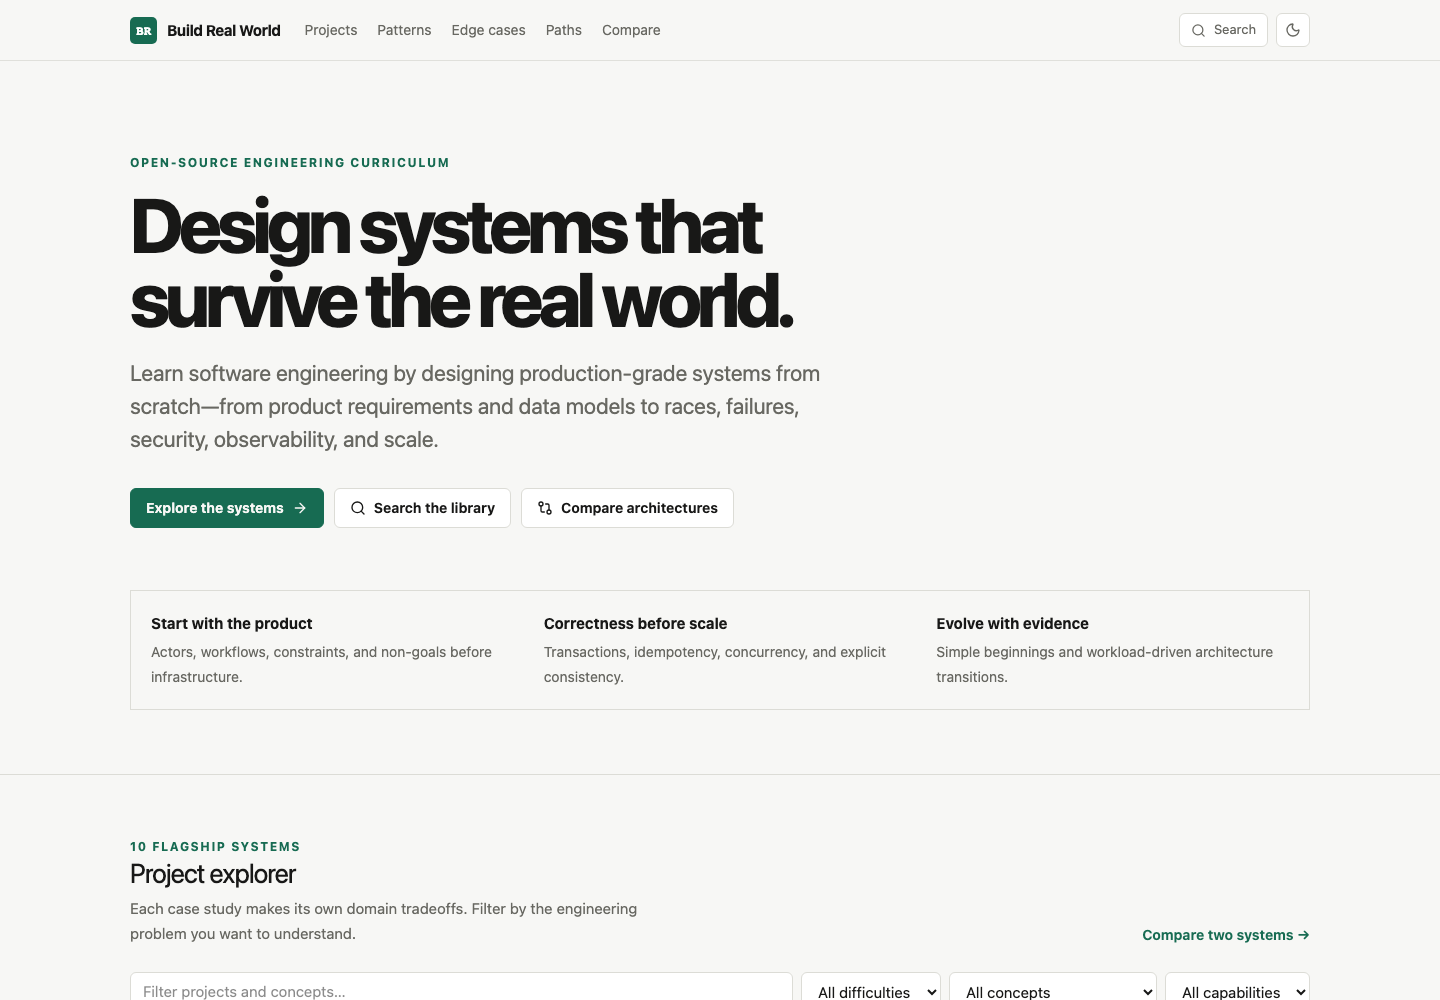
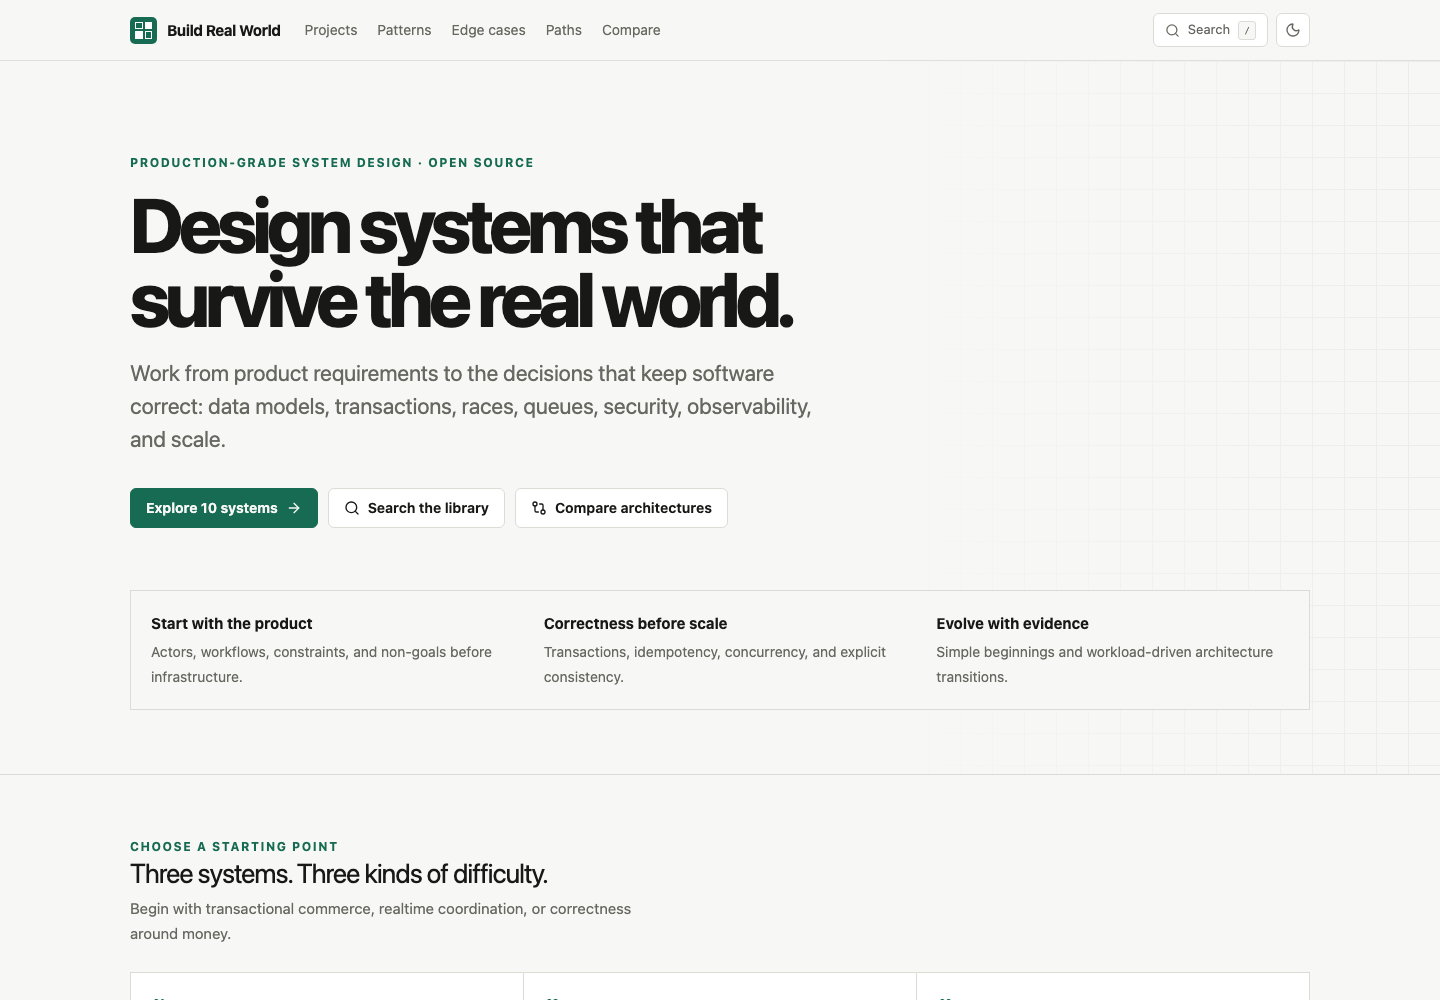
docs: rebuild public repository readme

diff --git a/README.md b/README.md
@@ -1,113 +1,116 @@
 # Build Real World
 
-**Learn software engineering by designing production-grade systems from scratch.**
+**Production-grade system design, one real-world product at a time.**
+
+Learn how applications are shaped by transactions, concurrency, failures, queues, caching, authorization, observability, and scale—not just by boxes in an architecture diagram.
 
 [![CI](https://github.com/rahmankutlu/build-real-world/actions/workflows/ci.yml/badge.svg)](https://github.com/rahmankutlu/build-real-world/actions/workflows/ci.yml)
-[![License: MIT](https://img.shields.io/badge/code-MIT-176b52.svg)](LICENSE)
-[![Content: CC BY 4.0](https://img.shields.io/badge/content-CC_BY_4.0-176b52.svg)](LICENSE)
+[![CodeQL](https://github.com/rahmankutlu/build-real-world/actions/workflows/codeql.yml/badge.svg)](https://github.com/rahmankutlu/build-real-world/actions/workflows/codeql.yml)
+[![Pages](https://github.com/rahmankutlu/build-real-world/actions/workflows/pages.yml/badge.svg)](https://github.com/rahmankutlu/build-real-world/actions/workflows/pages.yml)
+[![Next.js](https://img.shields.io/badge/Next.js-16-181817?logo=next.js)](https://nextjs.org/)
+[![TypeScript](https://img.shields.io/badge/TypeScript-5-3178c6?logo=typescript&logoColor=white)](https://www.typescriptlang.org/)
+[![Code: MIT](https://img.shields.io/badge/code-MIT-176b52.svg)](LICENSE)
+[![Content: CC BY 4.0](https://img.shields.io/badge/content-CC_BY_4.0-176b52.svg)](LICENSE-CONTENT)
 
-![Build Real World project explorer](docs/site-preview.png)
+[**Open the live site**](https://rahmankutlu.github.io/build-real-world/) · [**Explore the projects**](https://rahmankutlu.github.io/build-real-world/#projects) · [**Contribute**](CONTRIBUTING.md)
 
-**Live demo:** https://build-real-world.dev _(placeholder until the first deployment)_
+![Build Real World — production-grade system design](public/social-preview.png)
 
-Build Real World is an open-source, static-first knowledge platform for learning how real products are designed. It follows each system from users and workflows through data, APIs, transactions, asynchronous work, failure recovery, security, observability, testing, deployment, and evidence-driven scaling.
+## Why this is different
 
-It is not a clone tutorial, an interview cheat sheet, or a gallery of unexplained architecture boxes.
+Build Real World starts with a product and follows the decisions required to keep it correct when requests race, providers time out, messages repeat, permissions change, and workloads grow.
 
-## Featured projects
+| Typical short-form material | Build Real World |
+| --- | --- |
+| Happy-path feature walkthrough | Failure modes and recovery behavior |
+| CRUD tables | Constraints, invariants, indexes, and transaction boundaries |
+| Static architecture snapshot | Evolution from a small deployment to workload-driven partitions |
+| Endpoint list | Permissions, idempotency, pagination, and status semantics |
+| “Add Redis” | What is safe to cache, what is not, and how it is invalidated |
+| “Use a queue” | Producer/consumer ownership, retries, deduplication, and dead letters |
 
-- [E-commerce Platform](content/projects/ecommerce/) — stock reservation, checkout, fulfillment, and returns
-- [Food Delivery Platform](content/projects/food-delivery/) — merchant acceptance, dispatch, geospatial state, and settlement
-- [Ride Hailing Platform](content/projects/ride-hailing/) — driver matching, location churn, and acceptance races
-- [Video Streaming Platform](content/projects/video-streaming/) — resumable ingest, transcode pipelines, immutable media, and CDN delivery
-- [Payment Platform](content/projects/payment-platform/) — safe provider orchestration, idempotency, ledger concepts, and reconciliation
+This is not a claim that every example is ready to deploy unchanged. It is a practical reference for learning how product rules become engineering boundaries.
 
-## Why this exists
+## What is inside
 
-Software architecture is not the act of drawing services. It is the process of turning product constraints into boundaries that remain understandable when requests race, providers time out, queues redeliver, permissions change, and workloads grow.
+- **10 flagship system designs** covering commerce, logistics, SaaS, media, social, storage, and payments.
+- **17 engineering patterns** with use cases, counterexamples, minimal implementations, and tradeoffs.
+- **30 edge cases** that explain the failure mechanism, resulting bug, and mitigation.
+- **Four learning paths** for backend foundations, distributed systems, realtime systems, and SaaS architecture.
+- **Full-text search and architecture comparison** across the static content graph.
 
-Each case study answers the same core questions while preserving what is different about its domain:
+Every flagship project includes actors and requirements, domain relationships, a focused relational schema, realistic APIs, event boundaries, concurrency controls, caching, background jobs, security, observability, testing, deployment stages, and three Mermaid diagrams.
 
-- What are we building, for whom, and what is deliberately out of scope?
-- Which invariants require a transaction, constraint, version, or lock?
-- Which results may converge asynchronously?
-- How do retries, duplicate messages, stale caches, and partial failures behave?
-- What are the authorization and privacy boundaries?
-- Which logs, metrics, traces, alerts, and tests demonstrate that it works?
-- How can the architecture evolve from a small deployment without inventing scale?
+## Flagship systems
 
-## The v0.1 project set
+| Project | Difficulty | Core engineering problems | Key concepts |
+| --- | --- | --- | --- |
+| [E-commerce Platform](https://rahmankutlu.github.io/build-real-world/projects/ecommerce/) | Advanced | Inventory consistency, checkout, fulfillment | Transactions, locking, idempotency |
+| [Food Delivery Platform](https://rahmankutlu.github.io/build-real-world/projects/food-delivery/) | Expert | Menu volatility, courier dispatch, settlement | Geospatial, sagas, WebSockets |
+| [Ride Hailing Platform](https://rahmankutlu.github.io/build-real-world/projects/ride-hailing/) | Expert | Matching races, location streams, trip ownership | Realtime, geospatial, concurrency |
+| [Hotel PMS](https://rahmankutlu.github.io/build-real-world/projects/hotel-pms/) | Advanced | Nightly inventory, folios, business dates | Multi-tenancy, audit logs, timezones |
+| [Appointment SaaS](https://rahmankutlu.github.io/build-real-world/projects/appointment-saas/) | Intermediate | Slot contention, recurrence, calendar drift | Scheduling, webhooks, optimistic locking |
+| [Project Management](https://rahmankutlu.github.io/build-real-world/projects/project-management/) | Advanced | Concurrent edits, ACLs, activity fan-out | Authorization, realtime, pagination |
+| [Video Streaming](https://rahmankutlu.github.io/build-real-world/projects/video-streaming/) | Expert | Media ingest, processing recovery, delivery | Queues, object storage, CDN |
+| [Social Network](https://rahmankutlu.github.io/build-real-world/projects/social-network/) | Expert | Feed fan-out, graph privacy, moderation | Eventual consistency, caching, abuse controls |
+| [Cloud File Storage](https://rahmankutlu.github.io/build-real-world/projects/cloud-file-storage/) | Advanced | Resumable uploads, ACLs, quotas, sync | Object storage, background jobs, tenancy |
+| [Payment Platform](https://rahmankutlu.github.io/build-real-world/projects/payment-platform/) | Expert | Ambiguous outcomes, refunds, reconciliation | Ledger concepts, webhooks, idempotency |
 
-| Project | Difficulty | Distinctive engineering concerns |
-| --- | --- | --- |
-| E-commerce Platform | Advanced | inventory, transactional checkout, fulfillment |
-| Food Delivery Platform | Expert | menu volatility, courier dispatch, live delivery |
-| Ride Hailing Platform | Expert | matching races, location streams, trip ownership |
-| Hotel PMS | Advanced | nightly inventory, folios, business date, tenant isolation |
-| Appointment SaaS | Intermediate | recurrence, holds, time zones, calendar convergence |
-| Project Management Platform | Advanced | optimistic collaboration, ACLs, activity fan-out |
-| Video Streaming Platform | Expert | media pipelines, immutable objects, CDN delivery |
-| Social Network | Expert | hybrid feed fan-out, graph privacy, moderation |
-| Cloud File Storage | Advanced | resumable upload, namespace/ACLs, scanning, quota |
-| Payment Platform | Expert | provider ambiguity, idempotency, ledger, reconciliation |
+## See the platform
 
-Every project includes product and functional requirements, roles, workflows, a domain model, focused PostgreSQL schema, resource-oriented APIs, relevant events, at least five failure modes, consistency and concurrency decisions, caching, jobs, security, observability, tests, deployment stages, workload-scenario evolution, and three Mermaid diagrams.
+![Project explorer in the Build Real World web app](docs/site-preview.png)
 
-## Engineering library
+The web app is static-first: content and routes are generated at build time; search, filters, comparison, theme switching, and Mermaid rendering run in the browser. No account, backend, analytics, or tracker is required.
 
-The platform currently contains:
+## Quick start
 
-- 17 pattern guides, including idempotency keys, outbox, sagas, locking, retries, caching, webhooks, pagination, multi-tenancy, jobs, and audit logs.
-- 30 edge cases organized across payments, booking, authentication, uploads, realtime, messaging, notifications, inventory, tenancy, time zones, and distributed systems.
-- Four learning paths for backend foundations, distributed systems, realtime systems, and SaaS architecture.
-- Metadata-driven architecture comparison and client-side full-text search.
+### Browse online
 
-Complex patterns are not presented as badges of maturity. Every guide states when not to use the pattern and what it costs.
+Open **https://rahmankutlu.github.io/build-real-world/**. A useful first path is [E-commerce Platform](https://rahmankutlu.github.io/build-real-world/projects/ecommerce/) → [Appointment SaaS](https://rahmankutlu.github.io/build-real-world/projects/appointment-saas/) → [Payment Platform](https://rahmankutlu.github.io/build-real-world/projects/payment-platform/).
 
-## Local development
-
-Requirements: Node.js 20.9 or newer and npm.
+### Run locally
 
 ```bash
-npm install
+git clone https://github.com/rahmankutlu/build-real-world.git
+cd build-real-world
+npm ci
 npm run dev
 ```
 
 Open http://localhost:3000.
 
+Run the complete local quality gate:
+
 ```bash
-npm run lint
-npm run typecheck
-npm test
-npm run validate
+npm run check
 npm run build
 npx playwright install chromium
 npm run test:e2e
 ```
 
-`next build` produces a static export in `out/`. Set `NEXT_PUBLIC_SITE_URL` to the canonical deployment origin when building for production. For a repository-scoped GitHub Pages site, also set `NEXT_PUBLIC_BASE_PATH=/repository-name`; the included Pages workflow does this automatically.
+Validate the exact GitHub Pages base path:
 
-## Architecture
-
-```text
-Version-controlled TypeScript + JSON content
-                    │
-                    ▼
-      Zod schema and reference validation
-                    │
-                    ▼
-       Next.js App Router static generation
-          │              │             │
-          ▼              ▼             ▼
-    Project pages    Search index    Atom/sitemap
-          │
-          ▼
-  Static host / GitHub Pages
+```bash
+npm run build:pages
 ```
 
-There is no application backend in v0.1. Mermaid is rendered client-side, while the content and routes are generated at build time. Search and comparison operate on the static corpus in the browser.
+## How the repository works
 
-## Repository map
+```text
+content metadata + typed case studies
+                │
+                ▼
+   Zod, references, links, SEO checks
+                │
+                ▼
+      Next.js static generation
+       │          │          │
+       ▼          ▼          ▼
+  content pages  search   sitemap/feed
+                │
+                ▼
+        GitHub Pages artifact
+```
 
 ```text
 app/                 routes, metadata, sitemap, feed
@@ -115,27 +118,29 @@ components/          interactive UI and Mermaid renderer
 content/projects/    ten structured case studies + metadata
 content/patterns/    engineering pattern library
 content/edge-cases/  failure field guide
-content/learning-paths/
-lib/                 schemas and shared types
-scripts/             content and link validation
-tests/               unit/component tests
-e2e/                 Playwright core flows
+content/relationships.ts
+lib/                 schemas, URLs, SEO, shared types
+scripts/             content, link, SEO, and export validation
+tests/               unit and component tests
+e2e/                 Playwright browser flows
 ```
 
 ## Contributing
 
-Corrections, deeper failure analysis, schema improvements, diagrams, API examples, translations, edge cases, and well-scoped projects are welcome. Start with [CONTRIBUTING.md](CONTRIBUTING.md). The project template and automated checks exist to keep contributions reviewable and prevent shallow filler.
+The most valuable contributions are often small and specific: correct an unsafe assumption, add a missing race, improve an index, sharpen a diagram, or explain why a pattern does not belong.
 
-Do not include proprietary architecture, credentials, production data, unsafe payment handling, or claims that an example is production-certified.
+Read [CONTRIBUTING.md](CONTRIBUTING.md) before proposing a flagship system. New projects must meet the same depth and validation requirements as the existing ten; renamed architectures and invented scale claims are not accepted.
 
 ## Roadmap
 
-- **v0.1:** 10 flagship designs, patterns, 30 edge cases, paths, search, comparison, themes, static export, CI
-- **v0.2:** 20 projects, interactive database diagrams, deeper comparisons, translation foundation
-- **v0.3:** architecture playground, capacity-estimation exercises, failure injection scenarios
-- **v0.4:** community implementations, multiple stack examples, interactive quizzes
-- **v1.0:** stable content schema and contributor model, 50+ production-grade projects
+- **v0.1.x:** harden the public platform, content schema, validation, and contributor workflow.
+- **v0.2:** deeper comparisons, interactive database diagrams, and a translation foundation.
+- **v0.3:** capacity-estimation exercises and failure-injection scenarios.
+- **v1.0:** stable content schema and contributor model with a broader reviewed library.
 
 ## License
 
-Source code is licensed under the [MIT License](LICENSE). Educational prose, diagrams, and structured case-study content under `content/` and `docs/` are licensed under [Creative Commons Attribution 4.0 International](LICENSE). Contributions are accepted under the applicable license.
+- Application source, validation tooling, and automation: [MIT](LICENSE)
+- Educational prose, diagrams, project data, and documentation assets: [CC BY 4.0](LICENSE-CONTENT)
+
+Contributions are accepted under the license that applies to the files being changed. See [CONTRIBUTING.md](CONTRIBUTING.md#licensing-contributions) for details.

diff --git a/CONTRIBUTING.md b/CONTRIBUTING.md
@@ -22,10 +22,23 @@ Use `content/projects/_template/content.ts.example` as the review checklist. Met
 ## Workflow
 
 1. Fork and create a focused branch.
-2. Install with `npm install`.
+2. Install the locked dependency graph with `npm ci`.
 3. Make a small, reviewable change.
-4. Run `npm run lint && npm run typecheck && npm test && npm run validate && npm run build`.
+4. Run `npm run check && npm run build`.
 5. For UI changes, run `npm run test:e2e` and include before/after screenshots.
 6. Open the pull request and explain the engineering reasoning, not only the edited files.
 
-By contributing, you agree that code is provided under MIT and educational content under CC BY 4.0 as described in [LICENSE](LICENSE).
+## Adding a project
+
+Start from [`content/projects/_template`](content/projects/_template/). A proposal must identify the actors, core invariant, source of truth, transaction boundary, retry behavior, concurrency risk, cache boundary, asynchronous work, security boundary, operational signals, and the workload pressure that justifies each scale transition.
+
+Register the finished project and its curated relationships, then run `npm run validate`. The validator rejects missing metadata, shallow failure/security coverage, broken references, duplicate slugs, generic observability, and incomplete diagrams.
+
+## Licensing contributions
+
+By contributing, you agree that:
+
+- source code, tests, scripts, configuration, and automation are provided under the [MIT License](LICENSE);
+- educational prose, diagrams, structured case-study content, and documentation assets are provided under [CC BY 4.0](LICENSE-CONTENT).
+
+You must have the right to submit the material. Do not include proprietary architecture, credentials, customer data, or text copied from restricted sources.

diff --git a/content/projects/_template/README.md b/content/projects/_template/README.md
@@ -1,0 +1,21 @@
+# Project contribution checklist
+
+Copy this directory to `content/projects/<slug>/` and replace every example. A flagship project is accepted for domain-specific reasoning, not for filling every field.
+
+Before opening a pull request, confirm that the project explains:
+
+- the user, product boundary, assumptions, and non-goals;
+- the invariant and source of truth;
+- the schema, indexes, uniqueness rules, and transaction boundaries;
+- API permissions, status semantics, pagination, and idempotency;
+- relevant events, retries, deduplication, and dead-letter behavior;
+- at least five concrete failure modes and mitigations;
+- strong versus eventual consistency and one real concurrency race;
+- cache authority, invalidation, and background work;
+- at least five relevant security controls;
+- domain-specific logs, metrics, traces, and alerts;
+- unit, integration, contract, concurrency, failure, and end-to-end tests;
+- deployment and workload-driven evolution at three stages;
+- a context, application, and critical-sequence Mermaid diagram.
+
+Then register the project in `content/projects/index.ts`, add curated references in `content/relationships.ts`, and run `npm run validate`.
